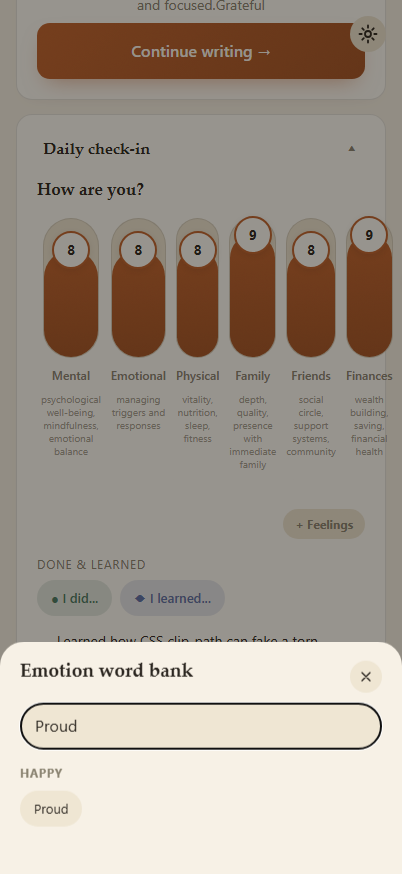
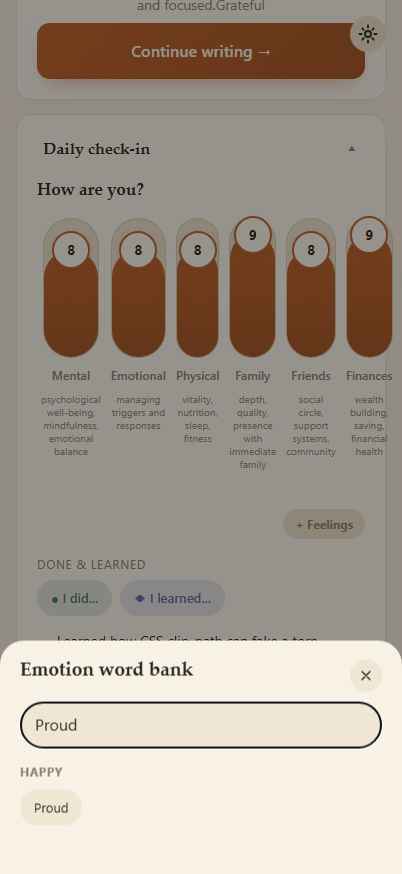
v2.3.3: brighten dark/amoled text contrast, open Daily check-in by default
Raise --ink/--ink-2 on dark, amoled, and system-default themes plus two
low-opacity muted spots (hslider desc, recap stats) so secondary text
reads clearly on AMOLED. Journal's Daily check-in section now starts
expanded so the 10-area life sliders are discoverable instead of hidden
behind a collapsed toggle; first tap still collapses it. Updated
test.js for the new default-open state (was asserting collapsed-by-
default and redundantly re-opening an already-open panel in several
places, which would time out clicking now-hidden children after a
collapse).

Claude-Session: https://claude.ai/code/session_01LwL4mP3FPJfFNKsVsGE2Vw

diff --git a/scripts/test.js b/scripts/test.js
@@ -359,14 +359,19 @@ async function main() {
   await gotoTab('journal');
   await overflowOK('journal-hub');
 
-  const checkinHiddenInitially = await page.locator('#checkin-body[hidden]').count();
-  check('Journal "Daily check-in" is collapsed by default', checkinHiddenInitially === 1);
+  const checkinVisibleInitially = await page.locator('#checkin-body:not([hidden])').count();
+  check('Journal "Daily check-in" is open by default', checkinVisibleInitially === 1);
   await screenshot('journal-declutter.png');
 
   await page.click('#checkin-toggle');
   await page.waitForTimeout(200);
+  const checkinHiddenAfterTap = await page.locator('#checkin-body[hidden]').count();
+  check('Daily check-in collapses on tap', checkinHiddenAfterTap === 1);
+
+  await page.click('#checkin-toggle');
+  await page.waitForTimeout(200);
   const checkinVisible = await page.locator('#checkin-body:not([hidden])').count();
-  check('Daily check-in expands on tap', checkinVisible === 1);
+  check('Daily check-in re-expands on tap', checkinVisible === 1);
 
   // Health sliders -- click near top of each track for a high value. Verify the shared
   // autosave badge also flashes on a slider change. All 8 non-core areas were already
@@ -550,10 +555,8 @@ async function main() {
   await gotoTab('goals'); await screenshot('goals-dark.png'); await overflowOK('goals-dark');
   await gotoTab('review'); await screenshot('review-dark.png'); await overflowOK('review-dark');
 
-  // Emotion word bank screenshot in dark theme (re-open from Journal check-in).
+  // Emotion word bank screenshot in dark theme (check-in is open by default).
   await gotoTab('journal');
-  await page.click('#checkin-toggle');
-  await page.waitForTimeout(150);
   await page.click('.emo-row__add');
   await page.waitForSelector('.sheet--wordbank', { timeout: 3000 });
   await screenshot('emotion-wordbank-dark.png');
@@ -586,8 +589,6 @@ async function main() {
   await financeToggle.evaluate((el) => { el.checked = false; el.dispatchEvent(new Event('change', { bubbles: true })); });
   await page.waitForTimeout(150);
   await gotoTab('journal');
-  await page.click('#checkin-toggle');
-  await page.waitForTimeout(150);
   const financeGoneFromRowCount = await page.locator('#health-row .hslider__track[aria-label="Finances"]').count();
   check('turning off Finances in Settings removes it from the always-visible row', financeGoneFromRowCount === 0, `count=${financeGoneFromRowCount}`);
   const expandLabelWithFinance = await page.locator('#life-areas-toggle-label').innerText();
@@ -602,8 +603,6 @@ async function main() {
   await financeToggle.evaluate((el) => { el.checked = true; el.dispatchEvent(new Event('change', { bubbles: true })); });
   await page.waitForTimeout(150);
   await gotoTab('journal');
-  await page.click('#checkin-toggle');
-  await page.waitForTimeout(150);
   const financeBackCount = await page.locator('#health-row .hslider__track[aria-label="Finances"]').count();
   check('turning Finances back on in Settings restores it to the always-visible row', financeBackCount === 1, `count=${financeBackCount}`);
   const expandHiddenAgainAfterRestore = await page.locator('#life-areas-toggle').isHidden();
@@ -620,8 +619,6 @@ async function main() {
   await mentalToggle.evaluate((el) => { el.checked = false; el.dispatchEvent(new Event('change', { bubbles: true })); });
   await page.waitForTimeout(150);
   await gotoTab('journal');
-  await page.click('#checkin-toggle');
-  await page.waitForTimeout(150);
   const mentalGoneFromRowCount = await page.locator('#health-row .hslider__track[aria-label="Mental"]').count();
   check('turning off a CORE area (Mental) in Settings removes it from the always-visible row', mentalGoneFromRowCount === 0, `count=${mentalGoneFromRowCount}`);
   await page.click('#life-areas-toggle');
@@ -640,8 +637,6 @@ async function main() {
   await mentalToggle.evaluate((el) => { el.checked = true; el.dispatchEvent(new Event('change', { bubbles: true })); });
   await page.waitForTimeout(150);
   await gotoTab('journal');
-  await page.click('#checkin-toggle');
-  await page.waitForTimeout(150);
   const mentalBackCount = await page.locator('#health-row .hslider__track[aria-label="Mental"]').count();
   check('turning Mental back on in Settings restores it to the always-visible row', mentalBackCount === 1, `count=${mentalBackCount}`);
   await page.click('#checkin-toggle');
@@ -716,8 +711,6 @@ async function main() {
   await gotoTab('journal');
   const persistedPreview = await page.locator('.journal-today-card__preview').innerText();
   check('journal text persisted after reload (Journal hub preview)', persistedPreview.includes('solid, productive day'), persistedPreview.slice(0, 90));
-  await page.click('#checkin-toggle');
-  await page.waitForTimeout(150);
   const persistedTagCount = await page.locator('.emo-pill').count();
   check('emotion tags persisted after reload', persistedTagCount >= 1, `count=${persistedTagCount}`);
 

diff --git a/css/styles.css b/css/styles.css
@@ -48,8 +48,8 @@ a { color: inherit; }
   --bg: #17140f;
   --bg-2: #1d1810;
   --card: #221c14;
-  --ink: #ede6d8;
-  --ink-2: #a0967f;
+  --ink: #f5f1ea;
+  --ink-2: #cdc4b0;
   --hairline: rgba(237, 230, 216, 0.10);
   --shadow: rgba(0, 0, 0, 0.45);
   --danger: #e07156;
@@ -58,16 +58,16 @@ a { color: inherit; }
   --bg: #000000;
   --bg-2: #0a0705;
   --card: #0c0a07;
-  --ink: #ede6d8;
-  --ink-2: #8f8672;
+  --ink: #f5f1ea;
+  --ink-2: #c7bda8;
   --hairline: rgba(237, 230, 216, 0.08);
   --shadow: rgba(0, 0, 0, 0.7);
   --danger: #e07156;
 }
 @media (prefers-color-scheme: dark) {
   :root:not([data-theme]) {
-    --bg: #17140f; --bg-2: #1d1810; --card: #221c14; --ink: #ede6d8;
-    --ink-2: #a0967f; --hairline: rgba(237,230,216,0.10); --shadow: rgba(0,0,0,0.45); --danger:#e07156;
+    --bg: #17140f; --bg-2: #1d1810; --card: #221c14; --ink: #f5f1ea;
+    --ink-2: #cdc4b0; --hairline: rgba(237,230,216,0.10); --shadow: rgba(0,0,0,0.45); --danger:#e07156;
   }
 }
 
@@ -432,7 +432,7 @@ body::before {
   transition: bottom 0.15s ease;
 }
 .hslider__label { font-size: calc(12px * var(--font-scale)); font-weight: 600; color: var(--ink-2); }
-.hslider__desc { font-size: calc(10px * var(--font-scale)); color: var(--ink-2); opacity: 0.75; text-align: center; line-height: 1.3; max-width: 84px; }
+.hslider__desc { font-size: calc(10px * var(--font-scale)); color: var(--ink-2); opacity: 0.9; text-align: center; line-height: 1.3; max-width: 84px; }
 
 /* Expandable "Rate more life areas" group -- the other 7 Burchard areas. A wrapping
    grid (not the core-3 flex row) so 7 items stay readable at 402px instead of

diff --git a/js/views/journal.js b/js/views/journal.js
@@ -187,11 +187,11 @@ async function renderEntriesPane(pane, { pendingAction } = {}) {
       </section>
 
       <section class="card">
-        <button type="button" class="checkin-toggle" id="checkin-toggle" aria-expanded="false">
+        <button type="button" class="checkin-toggle is-open" id="checkin-toggle" aria-expanded="true">
           <span>Daily check-in</span>
           <span class="checkin-toggle__chevron" aria-hidden="true">&#9662;</span>
         </button>
-        <div class="checkin-body" id="checkin-body" hidden>
+        <div class="checkin-body" id="checkin-body">
           <div class="card__title-row"><h2 class="card__title">How are you?</h2></div>
           <div class="health-row" id="health-row"></div>
           <button type="button" class="life-areas-toggle" id="life-areas-toggle" hidden>

diff --git a/js/views/today.js b/js/views/today.js
@@ -168,7 +168,7 @@ async function renderRecapWidget(el, settings, date) {
       el.hidden = true; return;
     }
     const mood = moodFor(day || {}, settings.ratingScale);
-    const stat = (t) => `<span style="opacity:.72">${t}</span>`;
+    const stat = (t) => `<span style="opacity:.85">${t}</span>`;
     el.hidden = false;
     el.innerHTML = `
       <div style="display:flex;justify-content:space-between;align-items:flex-start;gap:8px;">

diff --git a/sw.js b/sw.js
@@ -1,7 +1,7 @@
 // sw.js -- precaches the full app shell + vendor libs so Momentum works completely
 // offline. Cache-first for everything precached; network fallback (same-origin only,
 // this app makes no external calls) for anything else.
-const CACHE_NAME = 'momentum-v2-10';
+const CACHE_NAME = 'momentum-v2-11';
 const PRECACHE_URLS = [
   './',
   './index.html',

diff --git a/js/version.js b/js/version.js
@@ -1,4 +1,4 @@
 // Single source of truth for the app version. Shown in Settings so you can always
 // tell which build your device is running, and bumped on every deploy. Keep the
 // sw.js CACHE_NAME bumped in lockstep so the service worker re-caches new assets.
-export const APP_VERSION = '2.3.2';
+export const APP_VERSION = '2.3.3';
